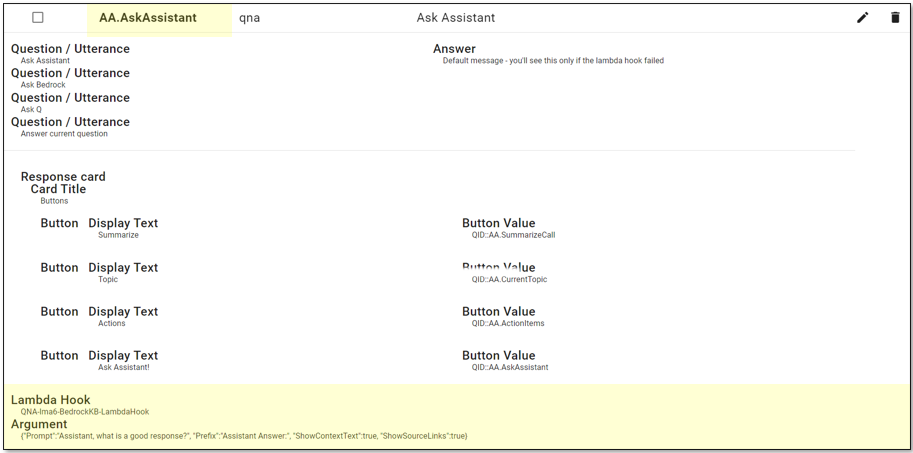
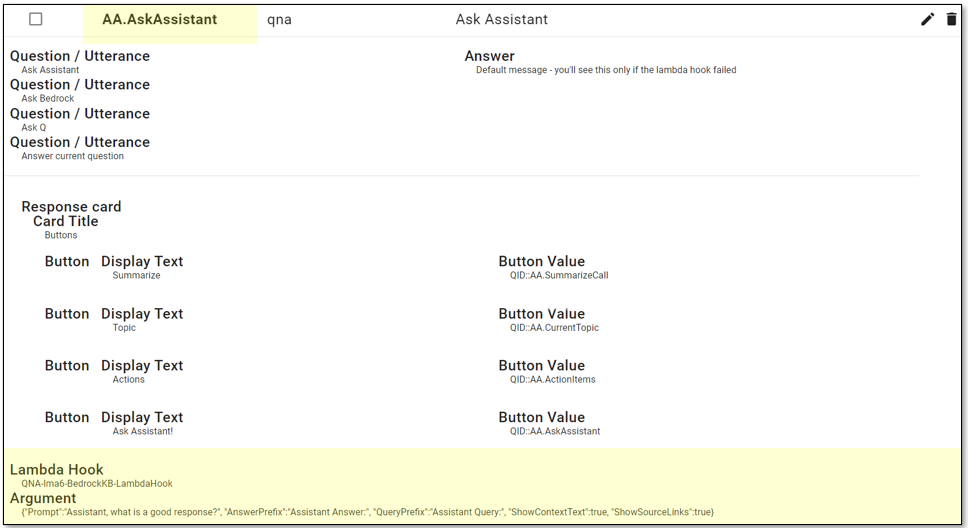
Prepend 'query' to the assistant's answers for added context showing the question it thinks it should answer

diff --git a/lma-meetingassist-setup-stack/src/qna_bedrockkb_lambdahook_function.py b/lma-meetingassist-setup-stack/src/qna_bedrockkb_lambdahook_function.py
@@ -171,7 +171,7 @@ def format_response(event, kb_response, query):
     answerprefix = lambdahook_settings.get("AnswerPrefix", "Assistant Answer:")
     showContextText = lambdahook_settings.get("ShowContextText", True)
     showSourceLinks = lambdahook_settings.get("ShowSourceLinks", True)
-    queryprefix = lambdahook_settings.get("QueryPrefix", "Assistant Query:")
+    queryprefix = lambdahook_settings.get("QueryPrefix")
     message = kb_response.get("output").get("text") or kb_response.get(
         "systemMessage") or "No answer found"
     # set plaintext, markdown, & ssml response
